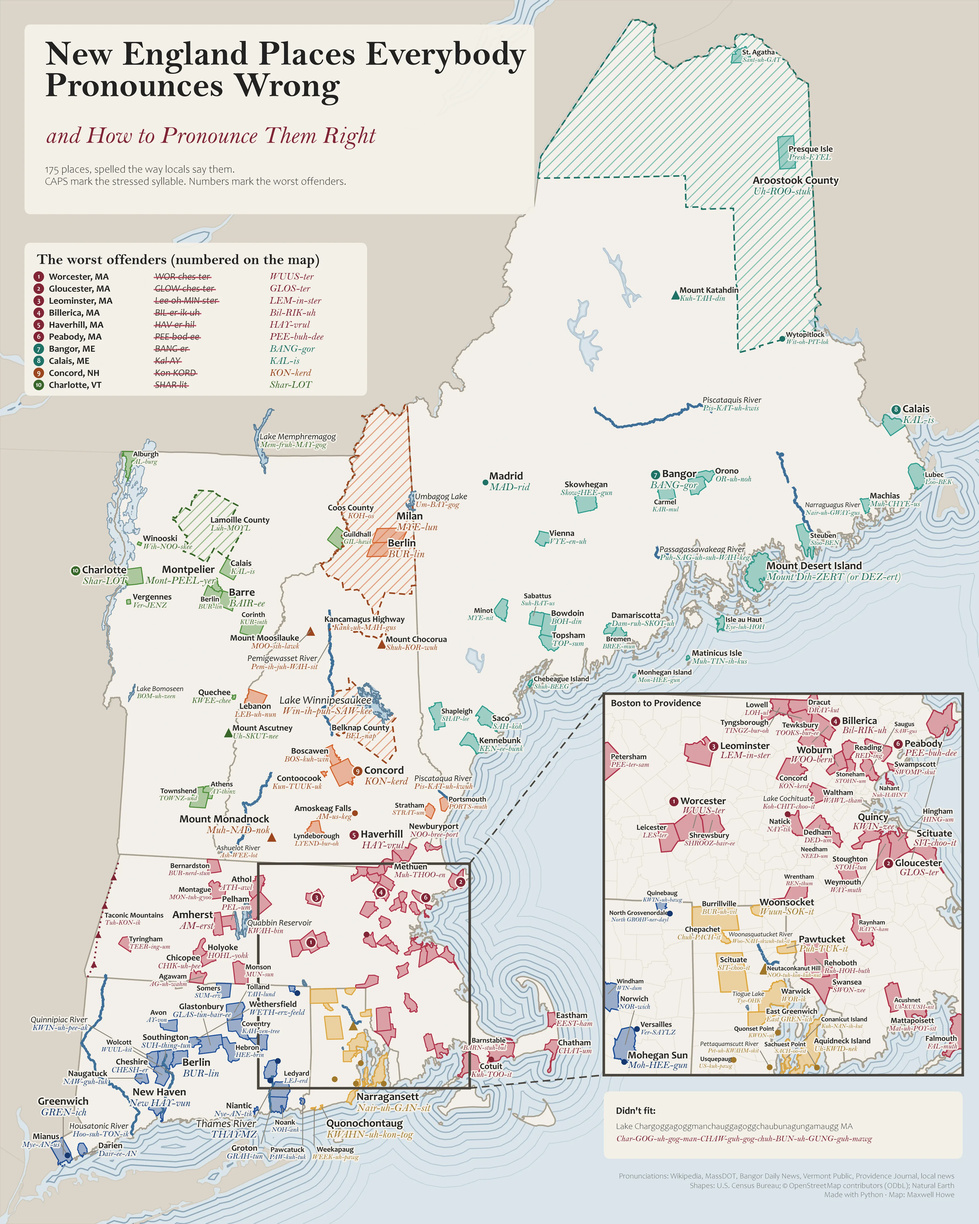
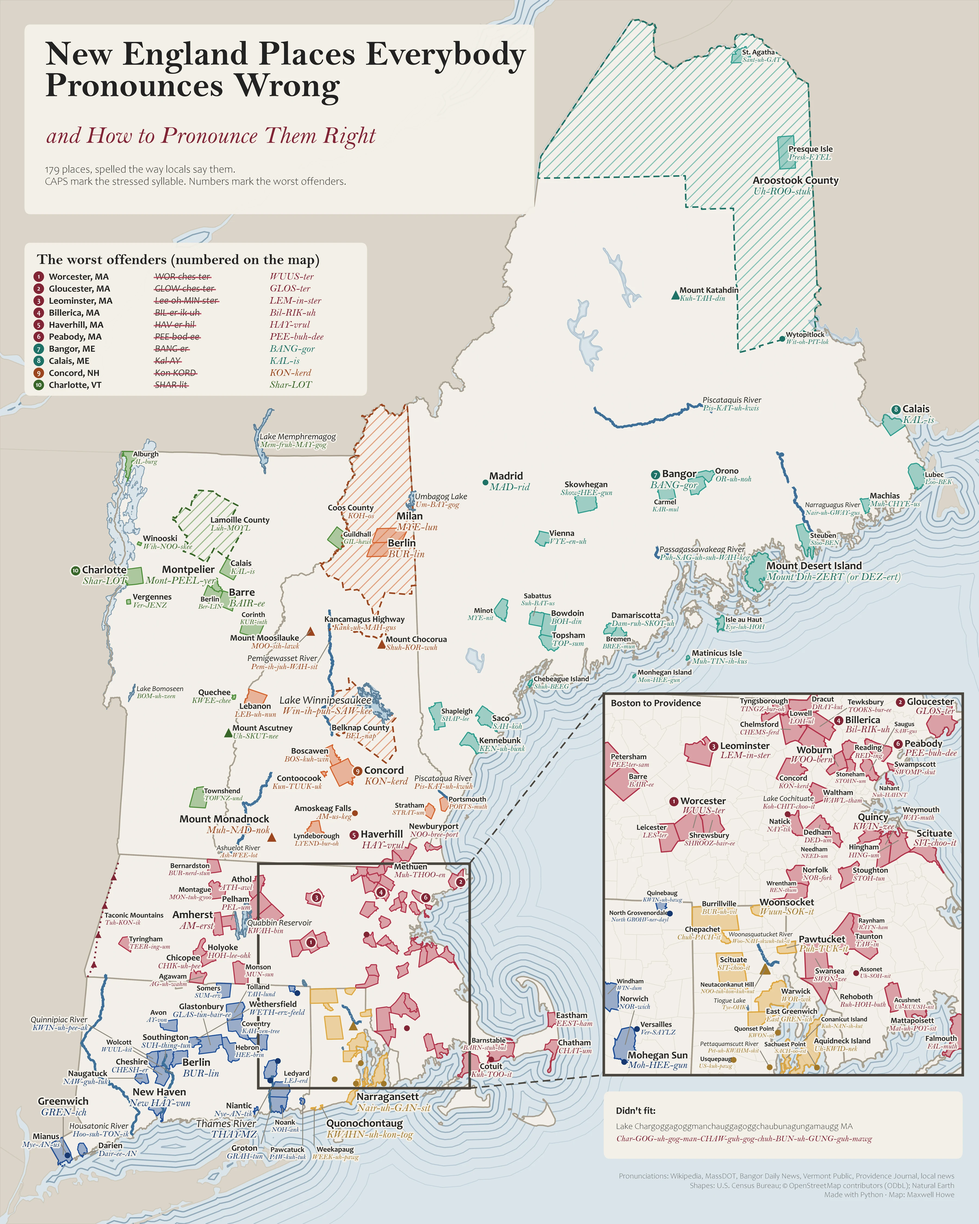
30 Day Maps: add days 22, 25, 26 and 27, refresh days 1 and 11
Day 26 includes the six state sheets and day 27 all 15 places, as thumbnail
grids under each main map.

diff --git a/src/portfolio/maps.html b/src/portfolio/maps.html
@@ -4,7 +4,7 @@
     <meta charset="UTF-8">
     <meta name="viewport" content="width=device-width, initial-scale=1.0">
     <title>30 Day Map Challenge 2026 — Maxwell Howe</title>
-    <meta name="description" content="Maxwell Howe’s maps for the 2026 30 Day Map Challenge: lighthouses, rivers, town charters, shipwrecks, foliage, railroads, pizza, a fantasy T map, traffic lights, sunsets, the drowned Quabbin towns, cows, snowfall, street names, drive times, and place names across New England.">
+    <meta name="description" content="Maxwell Howe’s maps for the 2026 30 Day Map Challenge: lighthouses, rivers, town charters, shipwrecks, foliage, railroads, pizza, a fantasy T map, traffic lights, sunsets, the drowned Quabbin towns, cows, snowfall, street names, ocean voyages, drive times, mountain ridges, water, buildings by age, and place names across New England.">
     <link rel="icon" href="favicon.svg" type="image/svg+xml">
     <link rel="icon" href="/favicon.ico" sizes="32x32">
     <link rel="apple-touch-icon" href="/apple-touch-icon.png">
@@ -28,7 +28,7 @@
         <header class="page-head">
             <div class="kicker">November 2026 · in progress</div>
             <h1>30 Day Map Challenge</h1>
-            <p class="lede">One map a day for November, each on a set theme. I’m keeping mine in New England. 20 of 30 are on this page, and I skipped Days 10 and 16. Click any map for the full-size version.</p>
+            <p class="lede">One map a day for November, each on a set theme. I’m keeping mine in New England. 24 of 30 are on this page, and I skipped Days 10 and 16. Click any map for the full-size version.</p>
             <hr class="tick-rule">
         </header>
 
@@ -56,12 +56,12 @@
                 <li><a class="day-cell" href="#day-19"><b>19</b>Senses: Smell</a></li>
                 <li><a class="day-cell" href="#day-20"><b>20</b>Hexagons</a></li>
                 <li><a class="day-cell" href="#day-21"><b>21</b>OpenStreetMap</a></li>
-                <li><span class="day-cell"><b>22</b>Projections</span></li>
+                <li><a class="day-cell" href="#day-22"><b>22</b>Projections</a></li>
                 <li><span class="day-cell"><b>23</b>Senses: Taste</span></li>
                 <li><a class="day-cell" href="#day-24"><b>24</b>Network</a></li>
-                <li><span class="day-cell"><b>25</b>Is this a map?</span></li>
-                <li><span class="day-cell"><b>26</b>Water</span></li>
-                <li><span class="day-cell"><b>27</b>New tool</span></li>
+                <li><a class="day-cell" href="#day-25"><b>25</b>Is this a map?</a></li>
+                <li><a class="day-cell" href="#day-26"><b>26</b>Water</a></li>
+                <li><a class="day-cell" href="#day-27"><b>27</b>New tool</a></li>
                 <li><span class="day-cell"><b>28</b>Senses: Feeling</span></li>
                 <li><span class="day-cell"><b>29</b>Raster</span></li>
                 <li><span class="day-cell"><b>30</b>Pen &amp; paper</span></li></ol>
@@ -73,7 +73,7 @@
             <h2>Massachusetts Lighthouses, by Age</h2>
             <figure><a href="/images/30-day-maps/day01-full.webp"><img src="/images/30-day-maps/day01.webp" alt="Map: Massachusetts Lighthouses, by Age" loading="lazy" decoding="async"></a></figure>
             <p>Every standing lighthouse tower on the Massachusetts coast, Cape Ann to Nantucket, colored by the year it was built. Four in five went up after the Lighthouse Board formed in 1852. The glow around each light is how far it reaches.</p>
-            <p class="map-credit">Data: OpenStreetMap contributors (ODbL), USCG Light List<br>Made with: QGIS, Illustrator</p>
+            <p class="map-credit">Data: OpenStreetMap contributors (ODbL), USCG Light List, Wikipedia, NOAA NCEI Coastal Relief Model<br>Made with: QGIS, Illustrator</p>
         </article>
 
         <article class="map-entry" id="day-02">
@@ -144,7 +144,7 @@
             <div class="kicker">Day 11 · Senses: Sound</div>
             <h2>New England Places Everybody Pronounces Wrong</h2>
             <figure><a href="/images/30-day-maps/day11-full.webp"><img src="/images/30-day-maps/day11.webp" alt="Map: New England Places Everybody Pronounces Wrong" loading="lazy" decoding="async"></a></figure>
-            <p>175 towns, rivers, lakes and mountains spelled the way locals say them: WUUS-ter, GLOS-ter, LEM-in-ster. Capitals mark the stressed syllable and the worst offenders are numbered. Every pronunciation has two sources.</p>
+            <p>179 towns, rivers, lakes and mountains spelled the way locals say them: WUUS-ter, GLOS-ter, LEM-in-ster. Capitals mark the stressed syllable and the worst offenders are numbered. Every pronunciation has two sources.</p>
             <p class="map-credit">Data: Wikipedia IPA, local news and town sources, US Census Bureau, OpenStreetMap<br>Made with: Python (geopandas, matplotlib)</p>
         </article>
 
@@ -220,12 +220,68 @@
             <p class="map-credit">Data: OpenStreetMap contributors (ODbL), extract of November 17, 2026; US Census Bureau TIGER/Line 2024; NH Department of Transportation<br>Made with: Python (pyosmium, geopandas, matplotlib)</p>
         </article>
 
+        <article class="map-entry portrait" id="day-22">
+            <div class="kicker">Day 22 · Projections</div>
+            <h2>Row in a Straight Line to Australia</h2>
+            <figure><a href="/images/30-day-maps/day22-full.webp"><img src="/images/30-day-maps/day22.webp" alt="Map: the first panel of an eight-panel strip following a straight line from Maine to Australia" loading="lazy" decoding="async"></a></figure>
+            <p>Push off from Portland Head Light in Cape Elizabeth, Maine, point the bow at 117° and row in a perfectly straight line. The next land is Australia, 13,886 miles away. The globe is rotated so the whole great circle runs flat across eight panels, with the seafloor under the boat. The closest calls are about 3½ miles off the Cape of Good Hope and 2 miles off Kerguelen. Click the map for the full eight-panel strip.</p>
+            <p class="map-credit">Data: NOAA ETOPO1, checked against GEBCO 2020; Natural Earth, geoBoundaries, US Census Bureau<br>Made with: Python (numba, pyproj, cartopy, matplotlib)</p>
+        </article>
+
         <article class="map-entry portrait" id="day-24">
             <div class="kicker">Day 24 · Network</div>
             <h2>Drive Time from Boston</h2>
             <figure><a href="/images/30-day-maps/day24-full.webp"><img src="/images/30-day-maps/day24.webp" alt="Map: Drive Time from Boston" loading="lazy" decoding="async"></a></figure>
             <p>How long it takes to drive from the Massachusetts State House to every part of New England, with no traffic. One color for every 15 minutes, and 66 cities and towns listed in order. Provincetown (2 h 23) is a longer drive than Portland, Maine (1 h 49). Madawaska, Maine is 7 h 23. The listed times were compared with a second routing engine, which puts 26 of 67 in a different 15-minute band, so read them as estimates.</p>
             <p class="map-credit">Data: OpenStreetMap contributors (ODbL), US Census Bureau, Natural Earth<br>Made with: Python (geopandas, matplotlib), OSRM, Valhalla</p>
+        </article>
+
+        <article class="map-entry portrait" id="day-25">
+            <div class="kicker">Day 25 · Is this a map?</div>
+            <h2>The Presidential Range</h2>
+            <figure><a href="/images/30-day-maps/day25-full.webp"><img src="/images/30-day-maps/day25.webp" alt="Ink-wash style side view of layered mountain ridges around Mount Washington under a red sun" loading="lazy" decoding="async"></a></figure>
+            <p>A side view of the mountains around Mount Washington, New Hampshire, drawn to look like an ink painting. The land is cut into 44 slices, each about a third of a mile wide, and each line is the top of one slice. Light lines are far away and dark lines are close. The red line runs through Mount Washington, 6,288 feet. Heights are drawn four times taller than real, and the red sun is only decoration.</p>
+            <p class="map-credit">Data: USGS 3D Elevation Program; OpenStreetMap contributors (ODbL)<br>Made with: Python (rasterio, NumPy, SciPy, Pillow), Illustrator</p>
+        </article>
+
+        <article class="map-entry portrait" id="day-26">
+            <div class="kicker">Day 26 · Water</div>
+            <h2>New England, Drawn Only in Its Water</h2>
+            <figure><a href="/images/30-day-maps/day26-full.webp"><img src="/images/30-day-maps/day26.webp" alt="Map: New England made only of rivers, lakes and wetlands, with no coastline or borders" loading="lazy" decoding="async"></a></figure>
+            <p>Rivers, streams, lakes, ponds, bogs and marshes, with the coast, borders and place names left off. The shape still reads, and each of the six states gets its own sheet below. A heavier line carries more water; the Connecticut River averages 17,400 cubic feet a second at Thompsonville, Connecticut. Streams that drain less than about a square mile and a half are left out.</p>
+            <p class="map-credit">Data: NHDPlus V2.1 (U.S. EPA and USGS), USGS National Water Information System<br>Made with: Python</p>
+            <ul class="map-set">
+                <li><a href="/images/30-day-maps/day26-maine-full.webp"><img src="/images/30-day-maps/day26-maine.webp" alt="Map: the water of Maine, drawn without borders" width="576" height="720" loading="lazy" decoding="async"><span>Maine</span></a></li>
+                <li><a href="/images/30-day-maps/day26-new-hampshire-full.webp"><img src="/images/30-day-maps/day26-new-hampshire.webp" alt="Map: the water of New Hampshire, drawn without borders" width="576" height="720" loading="lazy" decoding="async"><span>New Hampshire</span></a></li>
+                <li><a href="/images/30-day-maps/day26-vermont-full.webp"><img src="/images/30-day-maps/day26-vermont.webp" alt="Map: the water of Vermont, drawn without borders" width="576" height="720" loading="lazy" decoding="async"><span>Vermont</span></a></li>
+                <li><a href="/images/30-day-maps/day26-massachusetts-full.webp"><img src="/images/30-day-maps/day26-massachusetts.webp" alt="Map: the water of Massachusetts, drawn without borders" width="576" height="720" loading="lazy" decoding="async"><span>Massachusetts</span></a></li>
+                <li><a href="/images/30-day-maps/day26-connecticut-full.webp"><img src="/images/30-day-maps/day26-connecticut.webp" alt="Map: the water of Connecticut, drawn without borders" width="576" height="720" loading="lazy" decoding="async"><span>Connecticut</span></a></li>
+                <li><a href="/images/30-day-maps/day26-rhode-island-full.webp"><img src="/images/30-day-maps/day26-rhode-island.webp" alt="Map: the water of Rhode Island, drawn without borders" width="576" height="720" loading="lazy" decoding="async"><span>Rhode Island</span></a></li>
+            </ul>
+        </article>
+
+        <article class="map-entry portrait" id="day-27">
+            <div class="kicker">Day 27 · New tool</div>
+            <h2>Massachusetts Buildings by the Year They Were Built</h2>
+            <figure><a href="/images/30-day-maps/day27-full.webp"><img src="/images/30-day-maps/day27.webp" alt="Map: every building in Boston colored by the year it was built" loading="lazy" decoding="async"></a></figure>
+            <p>Every building in 15 Massachusetts places, 238,307 in all, colored by the year it was built. The darker the color, the older the building. Boston is above and the other 14 are below. My new tool was Lonboard, a Python library that draws millions of shapes at once; I explored the data with it, then drew the final sheets in Python. Town records often say 1900 when the real year is unknown, so some older buildings hide in the 1900–1939 color.</p>
+            <p class="map-credit">Data: MassGIS property tax parcels and assessor records (2026); building outlines © Microsoft (ODbL); streets © OpenStreetMap contributors (ODbL); US Census Bureau TIGER/Line<br>Made with: Python, Lonboard</p>
+            <ul class="map-set">
+                <li><a href="/images/30-day-maps/day27-cambridge-full.webp"><img src="/images/30-day-maps/day27-cambridge.webp" alt="Map: buildings in Cambridge colored by the year built" width="576" height="720" loading="lazy" decoding="async"><span>Cambridge</span></a></li>
+                <li><a href="/images/30-day-maps/day27-worcester-full.webp"><img src="/images/30-day-maps/day27-worcester.webp" alt="Map: buildings in Worcester colored by the year built" width="576" height="720" loading="lazy" decoding="async"><span>Worcester</span></a></li>
+                <li><a href="/images/30-day-maps/day27-springfield-full.webp"><img src="/images/30-day-maps/day27-springfield.webp" alt="Map: buildings in Springfield colored by the year built" width="576" height="720" loading="lazy" decoding="async"><span>Springfield</span></a></li>
+                <li><a href="/images/30-day-maps/day27-quincy-full.webp"><img src="/images/30-day-maps/day27-quincy.webp" alt="Map: buildings in Quincy colored by the year built" width="576" height="720" loading="lazy" decoding="async"><span>Quincy</span></a></li>
+                <li><a href="/images/30-day-maps/day27-newbedford-full.webp"><img src="/images/30-day-maps/day27-newbedford.webp" alt="Map: buildings in New Bedford colored by the year built" width="576" height="720" loading="lazy" decoding="async"><span>New Bedford</span></a></li>
+                <li><a href="/images/30-day-maps/day27-salem-full.webp"><img src="/images/30-day-maps/day27-salem.webp" alt="Map: buildings in Salem colored by the year built" width="576" height="720" loading="lazy" decoding="async"><span>Salem</span></a></li>
+                <li><a href="/images/30-day-maps/day27-newburyport-full.webp"><img src="/images/30-day-maps/day27-newburyport.webp" alt="Map: buildings in Newburyport colored by the year built" width="576" height="720" loading="lazy" decoding="async"><span>Newburyport</span></a></li>
+                <li><a href="/images/30-day-maps/day27-marblehead-full.webp"><img src="/images/30-day-maps/day27-marblehead.webp" alt="Map: buildings in Marblehead colored by the year built" width="576" height="720" loading="lazy" decoding="async"><span>Marblehead</span></a></li>
+                <li><a href="/images/30-day-maps/day27-ipswich-full.webp"><img src="/images/30-day-maps/day27-ipswich.webp" alt="Map: buildings in Ipswich colored by the year built" width="576" height="720" loading="lazy" decoding="async"><span>Ipswich</span></a></li>
+                <li><a href="/images/30-day-maps/day27-rockport-full.webp"><img src="/images/30-day-maps/day27-rockport.webp" alt="Map: buildings in Rockport colored by the year built" width="576" height="720" loading="lazy" decoding="async"><span>Rockport</span></a></li>
+                <li><a href="/images/30-day-maps/day27-hingham-full.webp"><img src="/images/30-day-maps/day27-hingham.webp" alt="Map: buildings in Hingham colored by the year built" width="576" height="720" loading="lazy" decoding="async"><span>Hingham</span></a></li>
+                <li><a href="/images/30-day-maps/day27-concord-full.webp"><img src="/images/30-day-maps/day27-concord.webp" alt="Map: buildings in Concord colored by the year built" width="576" height="720" loading="lazy" decoding="async"><span>Concord</span></a></li>
+                <li><a href="/images/30-day-maps/day27-nantucket-full.webp"><img src="/images/30-day-maps/day27-nantucket.webp" alt="Map: buildings in Nantucket colored by the year built" width="576" height="720" loading="lazy" decoding="async"><span>Nantucket</span></a></li>
+                <li><a href="/images/30-day-maps/day27-provincetown-full.webp"><img src="/images/30-day-maps/day27-provincetown.webp" alt="Map: buildings in Provincetown colored by the year built" width="576" height="720" loading="lazy" decoding="async"><span>Provincetown</span></a></li>
+            </ul>
         </article>
 
         <section class="section-tight">

diff --git a/30-day-maps/index.html b/30-day-maps/index.html
@@ -39,7 +39,7 @@
         <header class="page-head">
             <div class="kicker">November 2026 · in progress</div>
             <h1>30 Day Map Challenge</h1>
-            <p class="lede">One map a day for November, each on a set theme. I’m keeping mine in New England. 20 of 30 are on this page, and I skipped Days 10 and 16. Click any map for the full-size version.</p>
+            <p class="lede">One map a day for November, each on a set theme. I’m keeping mine in New England. 24 of 30 are on this page, and I skipped Days 10 and 16. Click any map for the full-size version.</p>
             <hr class="tick-rule">
         </header>
 
@@ -67,12 +67,12 @@
                 <li><a class="day-cell" href="#day-19"><b>19</b>Senses: Smell</a></li>
                 <li><a class="day-cell" href="#day-20"><b>20</b>Hexagons</a></li>
                 <li><a class="day-cell" href="#day-21"><b>21</b>OpenStreetMap</a></li>
-                <li><span class="day-cell"><b>22</b>Projections</span></li>
+                <li><a class="day-cell" href="#day-22"><b>22</b>Projections</a></li>
                 <li><span class="day-cell"><b>23</b>Senses: Taste</span></li>
                 <li><a class="day-cell" href="#day-24"><b>24</b>Network</a></li>
-                <li><span class="day-cell"><b>25</b>Is this a map?</span></li>
-                <li><span class="day-cell"><b>26</b>Water</span></li>
-                <li><span class="day-cell"><b>27</b>New tool</span></li>
+                <li><a class="day-cell" href="#day-25"><b>25</b>Is this a map?</a></li>
+                <li><a class="day-cell" href="#day-26"><b>26</b>Water</a></li>
+                <li><a class="day-cell" href="#day-27"><b>27</b>New tool</a></li>
                 <li><span class="day-cell"><b>28</b>Senses: Feeling</span></li>
                 <li><span class="day-cell"><b>29</b>Raster</span></li>
                 <li><span class="day-cell"><b>30</b>Pen &amp; paper</span></li></ol>
@@ -84,7 +84,7 @@
             <h2>Massachusetts Lighthouses, by Age</h2>
             <figure><a href="/images/30-day-maps/day01-full.webp"><img src="/images/30-day-maps/day01.webp" alt="Map: Massachusetts Lighthouses, by Age" loading="lazy" decoding="async"></a></figure>
             <p>Every standing lighthouse tower on the Massachusetts coast, Cape Ann to Nantucket, colored by the year it was built. Four in five went up after the Lighthouse Board formed in 1852. The glow around each light is how far it reaches.</p>
-            <p class="map-credit">Data: OpenStreetMap contributors (ODbL), USCG Light List<br>Made with: QGIS, Illustrator</p>
+            <p class="map-credit">Data: OpenStreetMap contributors (ODbL), USCG Light List, Wikipedia, NOAA NCEI Coastal Relief Model<br>Made with: QGIS, Illustrator</p>
         </article>
 
         <article class="map-entry" id="day-02">
@@ -155,7 +155,7 @@
             <div class="kicker">Day 11 · Senses: Sound</div>
             <h2>New England Places Everybody Pronounces Wrong</h2>
             <figure><a href="/images/30-day-maps/day11-full.webp"><img src="/images/30-day-maps/day11.webp" alt="Map: New England Places Everybody Pronounces Wrong" loading="lazy" decoding="async"></a></figure>
-            <p>175 towns, rivers, lakes and mountains spelled the way locals say them: WUUS-ter, GLOS-ter, LEM-in-ster. Capitals mark the stressed syllable and the worst offenders are numbered. Every pronunciation has two sources.</p>
+            <p>179 towns, rivers, lakes and mountains spelled the way locals say them: WUUS-ter, GLOS-ter, LEM-in-ster. Capitals mark the stressed syllable and the worst offenders are numbered. Every pronunciation has two sources.</p>
             <p class="map-credit">Data: Wikipedia IPA, local news and town sources, US Census Bureau, OpenStreetMap<br>Made with: Python (geopandas, matplotlib)</p>
         </article>
 
@@ -231,12 +231,68 @@
             <p class="map-credit">Data: OpenStreetMap contributors (ODbL), extract of November 17, 2026; US Census Bureau TIGER/Line 2024; NH Department of Transportation<br>Made with: Python (pyosmium, geopandas, matplotlib)</p>
         </article>
 
+        <article class="map-entry portrait" id="day-22">
+            <div class="kicker">Day 22 · Projections</div>
+            <h2>Row in a Straight Line to Australia</h2>
+            <figure><a href="/images/30-day-maps/day22-full.webp"><img src="/images/30-day-maps/day22.webp" alt="Map: the first panel of an eight-panel strip following a straight line from Maine to Australia" loading="lazy" decoding="async"></a></figure>
+            <p>Push off from Portland Head Light in Cape Elizabeth, Maine, point the bow at 117° and row in a perfectly straight line. The next land is Australia, 13,886 miles away. The globe is rotated so the whole great circle runs flat across eight panels, with the seafloor under the boat. The closest calls are about 3½ miles off the Cape of Good Hope and 2 miles off Kerguelen. Click the map for the full eight-panel strip.</p>
+            <p class="map-credit">Data: NOAA ETOPO1, checked against GEBCO 2020; Natural Earth, geoBoundaries, US Census Bureau<br>Made with: Python (numba, pyproj, cartopy, matplotlib)</p>
+        </article>
+
         <article class="map-entry portrait" id="day-24">
             <div class="kicker">Day 24 · Network</div>
             <h2>Drive Time from Boston</h2>
             <figure><a href="/images/30-day-maps/day24-full.webp"><img src="/images/30-day-maps/day24.webp" alt="Map: Drive Time from Boston" loading="lazy" decoding="async"></a></figure>
             <p>How long it takes to drive from the Massachusetts State House to every part of New England, with no traffic. One color for every 15 minutes, and 66 cities and towns listed in order. Provincetown (2 h 23) is a longer drive than Portland, Maine (1 h 49). Madawaska, Maine is 7 h 23. The listed times were compared with a second routing engine, which puts 26 of 67 in a different 15-minute band, so read them as estimates.</p>
             <p class="map-credit">Data: OpenStreetMap contributors (ODbL), US Census Bureau, Natural Earth<br>Made with: Python (geopandas, matplotlib), OSRM, Valhalla</p>
+        </article>
+
+        <article class="map-entry portrait" id="day-25">
+            <div class="kicker">Day 25 · Is this a map?</div>
+            <h2>The Presidential Range</h2>
+            <figure><a href="/images/30-day-maps/day25-full.webp"><img src="/images/30-day-maps/day25.webp" alt="Ink-wash style side view of layered mountain ridges around Mount Washington under a red sun" loading="lazy" decoding="async"></a></figure>
+            <p>A side view of the mountains around Mount Washington, New Hampshire, drawn to look like an ink painting. The land is cut into 44 slices, each about a third of a mile wide, and each line is the top of one slice. Light lines are far away and dark lines are close. The red line runs through Mount Washington, 6,288 feet. Heights are drawn four times taller than real, and the red sun is only decoration.</p>
+            <p class="map-credit">Data: USGS 3D Elevation Program; OpenStreetMap contributors (ODbL)<br>Made with: Python (rasterio, NumPy, SciPy, Pillow), Illustrator</p>
+        </article>
+
+        <article class="map-entry portrait" id="day-26">
+            <div class="kicker">Day 26 · Water</div>
+            <h2>New England, Drawn Only in Its Water</h2>
+            <figure><a href="/images/30-day-maps/day26-full.webp"><img src="/images/30-day-maps/day26.webp" alt="Map: New England made only of rivers, lakes and wetlands, with no coastline or borders" loading="lazy" decoding="async"></a></figure>
+            <p>Rivers, streams, lakes, ponds, bogs and marshes, with the coast, borders and place names left off. The shape still reads, and each of the six states gets its own sheet below. A heavier line carries more water; the Connecticut River averages 17,400 cubic feet a second at Thompsonville, Connecticut. Streams that drain less than about a square mile and a half are left out.</p>
+            <p class="map-credit">Data: NHDPlus V2.1 (U.S. EPA and USGS), USGS National Water Information System<br>Made with: Python</p>
+            <ul class="map-set">
+                <li><a href="/images/30-day-maps/day26-maine-full.webp"><img src="/images/30-day-maps/day26-maine.webp" alt="Map: the water of Maine, drawn without borders" width="576" height="720" loading="lazy" decoding="async"><span>Maine</span></a></li>
+                <li><a href="/images/30-day-maps/day26-new-hampshire-full.webp"><img src="/images/30-day-maps/day26-new-hampshire.webp" alt="Map: the water of New Hampshire, drawn without borders" width="576" height="720" loading="lazy" decoding="async"><span>New Hampshire</span></a></li>
+                <li><a href="/images/30-day-maps/day26-vermont-full.webp"><img src="/images/30-day-maps/day26-vermont.webp" alt="Map: the water of Vermont, drawn without borders" width="576" height="720" loading="lazy" decoding="async"><span>Vermont</span></a></li>
+                <li><a href="/images/30-day-maps/day26-massachusetts-full.webp"><img src="/images/30-day-maps/day26-massachusetts.webp" alt="Map: the water of Massachusetts, drawn without borders" width="576" height="720" loading="lazy" decoding="async"><span>Massachusetts</span></a></li>
+                <li><a href="/images/30-day-maps/day26-connecticut-full.webp"><img src="/images/30-day-maps/day26-connecticut.webp" alt="Map: the water of Connecticut, drawn without borders" width="576" height="720" loading="lazy" decoding="async"><span>Connecticut</span></a></li>
+                <li><a href="/images/30-day-maps/day26-rhode-island-full.webp"><img src="/images/30-day-maps/day26-rhode-island.webp" alt="Map: the water of Rhode Island, drawn without borders" width="576" height="720" loading="lazy" decoding="async"><span>Rhode Island</span></a></li>
+            </ul>
+        </article>
+
+        <article class="map-entry portrait" id="day-27">
+            <div class="kicker">Day 27 · New tool</div>
+            <h2>Massachusetts Buildings by the Year They Were Built</h2>
+            <figure><a href="/images/30-day-maps/day27-full.webp"><img src="/images/30-day-maps/day27.webp" alt="Map: every building in Boston colored by the year it was built" loading="lazy" decoding="async"></a></figure>
+            <p>Every building in 15 Massachusetts places, 238,307 in all, colored by the year it was built. The darker the color, the older the building. Boston is above and the other 14 are below. My new tool was Lonboard, a Python library that draws millions of shapes at once; I explored the data with it, then drew the final sheets in Python. Town records often say 1900 when the real year is unknown, so some older buildings hide in the 1900–1939 color.</p>
+            <p class="map-credit">Data: MassGIS property tax parcels and assessor records (2026); building outlines © Microsoft (ODbL); streets © OpenStreetMap contributors (ODbL); US Census Bureau TIGER/Line<br>Made with: Python, Lonboard</p>
+            <ul class="map-set">
+                <li><a href="/images/30-day-maps/day27-cambridge-full.webp"><img src="/images/30-day-maps/day27-cambridge.webp" alt="Map: buildings in Cambridge colored by the year built" width="576" height="720" loading="lazy" decoding="async"><span>Cambridge</span></a></li>
+                <li><a href="/images/30-day-maps/day27-worcester-full.webp"><img src="/images/30-day-maps/day27-worcester.webp" alt="Map: buildings in Worcester colored by the year built" width="576" height="720" loading="lazy" decoding="async"><span>Worcester</span></a></li>
+                <li><a href="/images/30-day-maps/day27-springfield-full.webp"><img src="/images/30-day-maps/day27-springfield.webp" alt="Map: buildings in Springfield colored by the year built" width="576" height="720" loading="lazy" decoding="async"><span>Springfield</span></a></li>
+                <li><a href="/images/30-day-maps/day27-quincy-full.webp"><img src="/images/30-day-maps/day27-quincy.webp" alt="Map: buildings in Quincy colored by the year built" width="576" height="720" loading="lazy" decoding="async"><span>Quincy</span></a></li>
+                <li><a href="/images/30-day-maps/day27-newbedford-full.webp"><img src="/images/30-day-maps/day27-newbedford.webp" alt="Map: buildings in New Bedford colored by the year built" width="576" height="720" loading="lazy" decoding="async"><span>New Bedford</span></a></li>
+                <li><a href="/images/30-day-maps/day27-salem-full.webp"><img src="/images/30-day-maps/day27-salem.webp" alt="Map: buildings in Salem colored by the year built" width="576" height="720" loading="lazy" decoding="async"><span>Salem</span></a></li>
+                <li><a href="/images/30-day-maps/day27-newburyport-full.webp"><img src="/images/30-day-maps/day27-newburyport.webp" alt="Map: buildings in Newburyport colored by the year built" width="576" height="720" loading="lazy" decoding="async"><span>Newburyport</span></a></li>
+                <li><a href="/images/30-day-maps/day27-marblehead-full.webp"><img src="/images/30-day-maps/day27-marblehead.webp" alt="Map: buildings in Marblehead colored by the year built" width="576" height="720" loading="lazy" decoding="async"><span>Marblehead</span></a></li>
+                <li><a href="/images/30-day-maps/day27-ipswich-full.webp"><img src="/images/30-day-maps/day27-ipswich.webp" alt="Map: buildings in Ipswich colored by the year built" width="576" height="720" loading="lazy" decoding="async"><span>Ipswich</span></a></li>
+                <li><a href="/images/30-day-maps/day27-rockport-full.webp"><img src="/images/30-day-maps/day27-rockport.webp" alt="Map: buildings in Rockport colored by the year built" width="576" height="720" loading="lazy" decoding="async"><span>Rockport</span></a></li>
+                <li><a href="/images/30-day-maps/day27-hingham-full.webp"><img src="/images/30-day-maps/day27-hingham.webp" alt="Map: buildings in Hingham colored by the year built" width="576" height="720" loading="lazy" decoding="async"><span>Hingham</span></a></li>
+                <li><a href="/images/30-day-maps/day27-concord-full.webp"><img src="/images/30-day-maps/day27-concord.webp" alt="Map: buildings in Concord colored by the year built" width="576" height="720" loading="lazy" decoding="async"><span>Concord</span></a></li>
+                <li><a href="/images/30-day-maps/day27-nantucket-full.webp"><img src="/images/30-day-maps/day27-nantucket.webp" alt="Map: buildings in Nantucket colored by the year built" width="576" height="720" loading="lazy" decoding="async"><span>Nantucket</span></a></li>
+                <li><a href="/images/30-day-maps/day27-provincetown-full.webp"><img src="/images/30-day-maps/day27-provincetown.webp" alt="Map: buildings in Provincetown colored by the year built" width="576" height="720" loading="lazy" decoding="async"><span>Provincetown</span></a></li>
+            </ul>
         </article>
 
         <section class="section-tight">

diff --git a/index.html b/index.html
@@ -52,7 +52,7 @@
     <div class="container">
         <section class="section-tight now-strip" aria-labelledby="now-heading">
             <h2 id="now-heading">Now</h2>
-            <div class="building-strip" id="buildingStrip"><a class="building-pill" href="/30-day-maps/"><span class="dot dot-live"></span>30 Day Map Challenge: 20 of 30 done</a><a class="building-pill" href="/drives/"><span class="dot dot-live"></span>Optimal Drives: about 50 routing videos</a><a class="building-pill" href="/about/"><span class="dot dot-dev"></span>Teaching stats at Lynn English, year four</a></div>
+            <div class="building-strip" id="buildingStrip"><a class="building-pill" href="/30-day-maps/"><span class="dot dot-live"></span>30 Day Map Challenge: 24 of 30 done</a><a class="building-pill" href="/drives/"><span class="dot dot-live"></span>Optimal Drives: about 50 routing videos</a><a class="building-pill" href="/about/"><span class="dot dot-dev"></span>Teaching stats at Lynn English, year four</a></div>
         </section>
 
         <hr class="scalebar">
@@ -69,7 +69,7 @@
                     </div>
                     <div class="feature-body">
                         <h3>30 Day Map Challenge</h3>
-                        <p>A map a day through November, all New England. Twenty done so far, including every lighthouse in Massachusetts, 1911 railroads, a fantasy T map, 72 rotaries, 5.3 million buildings, and a 3D map of New England's cows.</p>
+                        <p>A map a day through November, all New England. Twenty-four done so far, including every lighthouse in Massachusetts, 1911 railroads, a fantasy T map, 72 rotaries, 5.3 million buildings, and a 3D map of New England's cows.</p>
                     </div>
                 </a>
                 <a class="feature" href="/drives/">

diff --git a/assets/portfolio/css/pages.css b/assets/portfolio/css/pages.css
@@ -94,6 +94,10 @@ a.day-cell:hover { border-color: var(--vermilion); color: var(--ink); }
 .map-entry img { display: block; width: 100%; height: auto; }
 .map-entry.portrait figure { max-width: 720px; }
 .map-entry h2 { margin-bottom: var(--space-2); }
+.map-set { display: grid; grid-template-columns: repeat(auto-fill, minmax(150px, 1fr)); gap: var(--space-2); max-width: 720px; margin: var(--space-3) 0 0; padding: 0; list-style: none; }
+.map-set a { display: block; text-decoration: none; }
+.map-set img { display: block; width: 100%; height: auto; border: 1px solid var(--line-strong); }
+.map-set span { display: block; margin-top: 4px; font-family: var(--font-mono); font-size: var(--text-xs); color: var(--ink-faint); }
 .map-entry p { max-width: var(--measure); }
 .map-credit { font-family: var(--font-mono); font-size: var(--text-xs); color: var(--ink-faint); }
 

diff --git a/src/portfolio/css/pages.css b/src/portfolio/css/pages.css
@@ -94,6 +94,10 @@ a.day-cell:hover { border-color: var(--vermilion); color: var(--ink); }
 .map-entry img { display: block; width: 100%; height: auto; }
 .map-entry.portrait figure { max-width: 720px; }
 .map-entry h2 { margin-bottom: var(--space-2); }
+.map-set { display: grid; grid-template-columns: repeat(auto-fill, minmax(150px, 1fr)); gap: var(--space-2); max-width: 720px; margin: var(--space-3) 0 0; padding: 0; list-style: none; }
+.map-set a { display: block; text-decoration: none; }
+.map-set img { display: block; width: 100%; height: auto; border: 1px solid var(--line-strong); }
+.map-set span { display: block; margin-top: 4px; font-family: var(--font-mono); font-size: var(--text-xs); color: var(--ink-faint); }
 .map-entry p { max-width: var(--measure); }
 .map-credit { font-family: var(--font-mono); font-size: var(--text-xs); color: var(--ink-faint); }
 

diff --git a/src/portfolio/index.html b/src/portfolio/index.html
@@ -58,7 +58,7 @@
                     </div>
                     <div class="feature-body">
                         <h3>30 Day Map Challenge</h3>
-                        <p>A map a day through November, all New England. Twenty done so far, including every lighthouse in Massachusetts, 1911 railroads, a fantasy T map, 72 rotaries, 5.3 million buildings, and a 3D map of New England's cows.</p>
+                        <p>A map a day through November, all New England. Twenty-four done so far, including every lighthouse in Massachusetts, 1911 railroads, a fantasy T map, 72 rotaries, 5.3 million buildings, and a 3D map of New England's cows.</p>
                     </div>
                 </a>
                 <a class="feature" href="/drives/">

diff --git a/assets/portfolio/js/page-home.js b/assets/portfolio/js/page-home.js
@@ -6,7 +6,7 @@
 
     // What is actually on the desk this month. Keep it to two or three.
     var BUILDING = [
-        { label: '30 Day Map Challenge: 20 of 30 done', href: '/30-day-maps/', state: 'live' },
+        { label: '30 Day Map Challenge: 24 of 30 done', href: '/30-day-maps/', state: 'live' },
         { label: 'Optimal Drives: about 50 routing videos', href: '/drives/', state: 'live' },
         { label: 'Teaching stats at Lynn English, year four', href: '/about/', state: 'dev' }
     ];

diff --git a/src/portfolio/js/page-home.js b/src/portfolio/js/page-home.js
@@ -6,7 +6,7 @@
 
     // What is actually on the desk this month. Keep it to two or three.
     var BUILDING = [
-        { label: '30 Day Map Challenge: 20 of 30 done', href: '/30-day-maps/', state: 'live' },
+        { label: '30 Day Map Challenge: 24 of 30 done', href: '/30-day-maps/', state: 'live' },
         { label: 'Optimal Drives: about 50 routing videos', href: '/drives/', state: 'live' },
         { label: 'Teaching stats at Lynn English, year four', href: '/about/', state: 'dev' }
     ];
